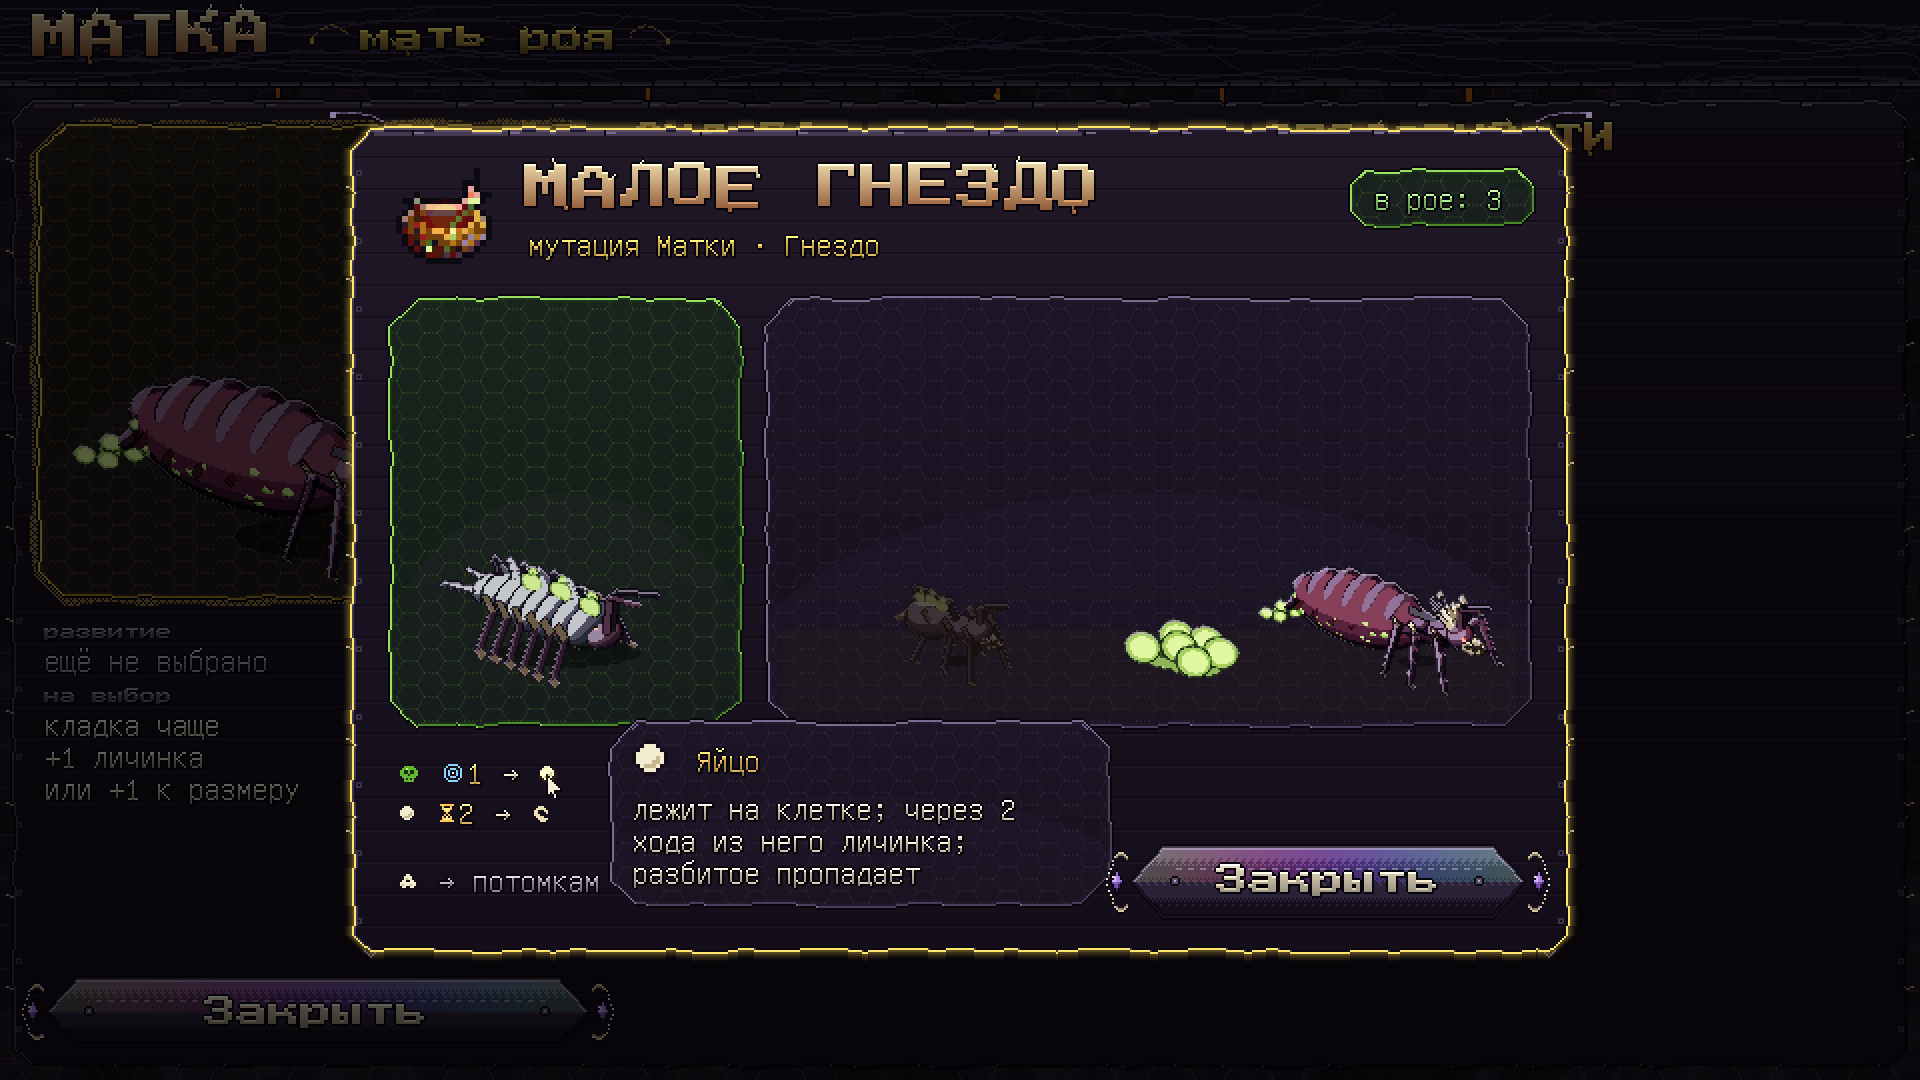
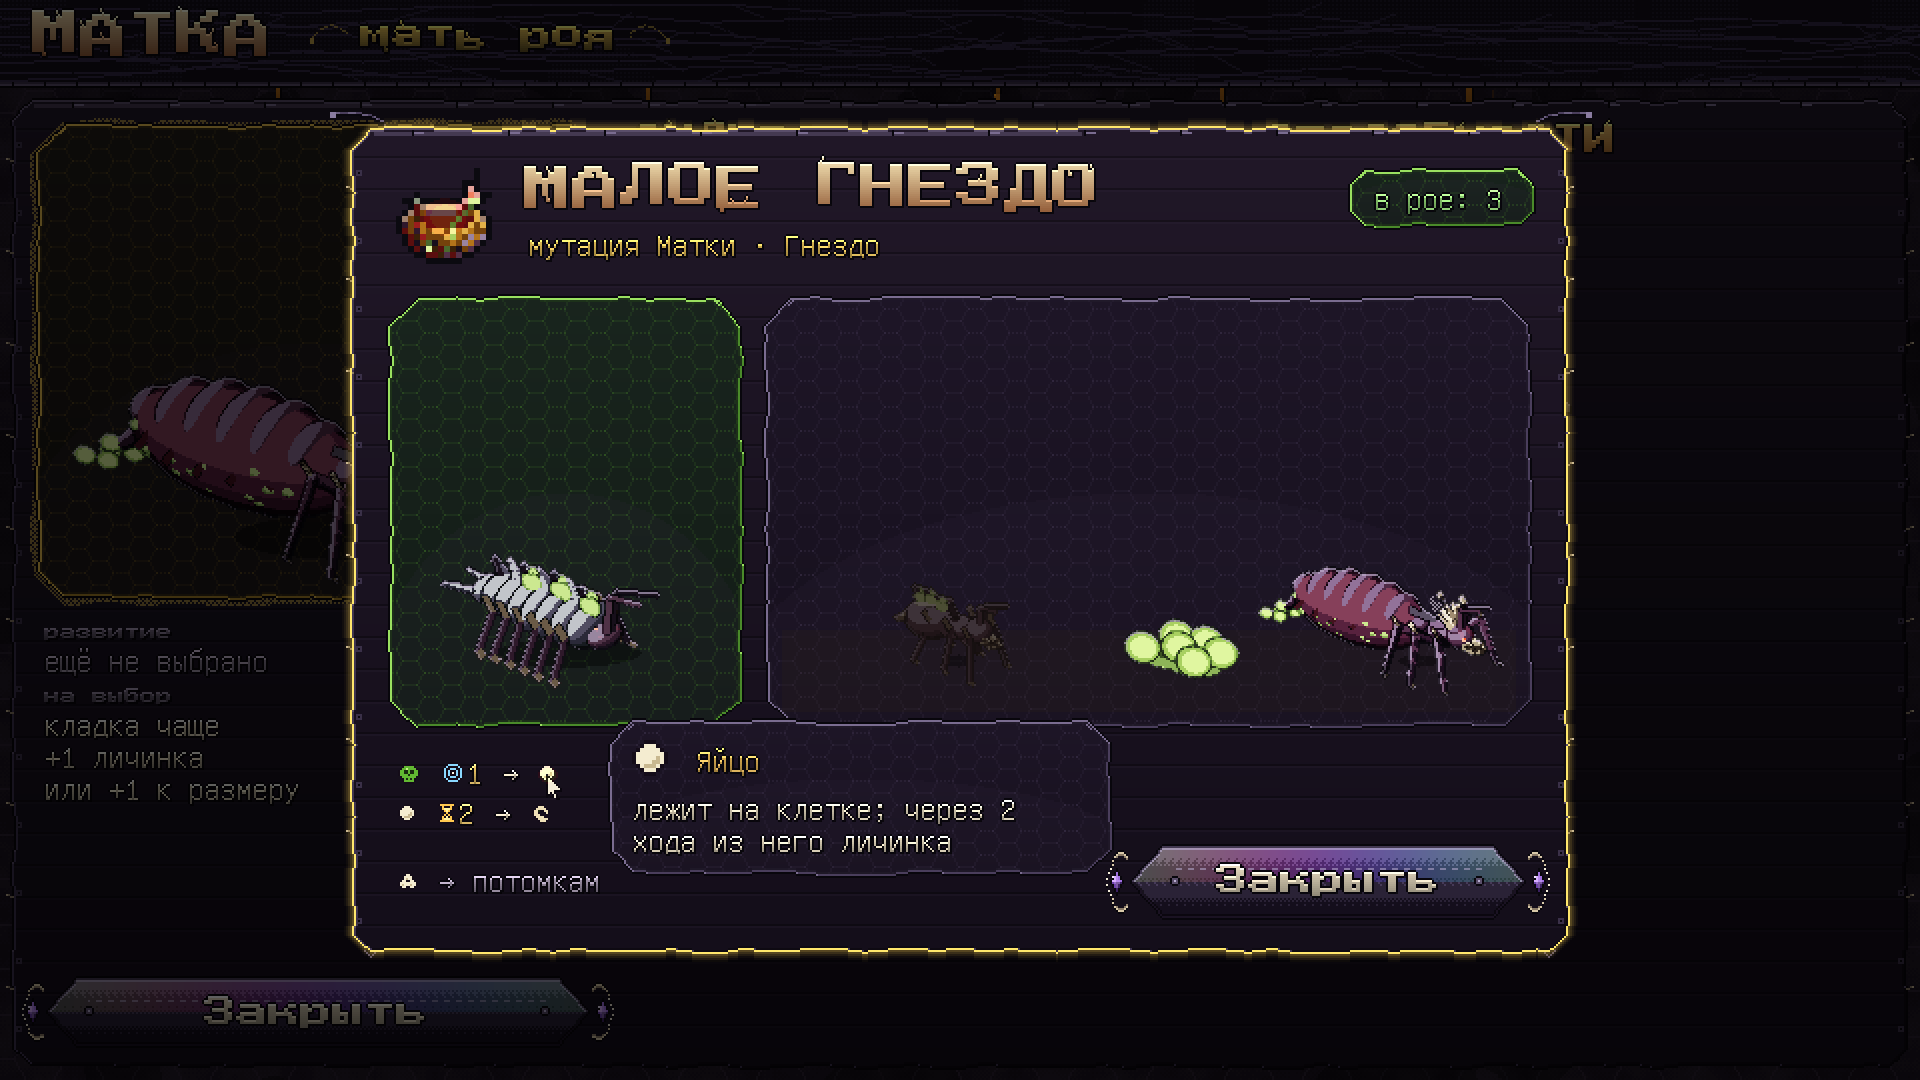
Значок яйца: определение без «разбитое пропадает»
Claude-Session: https://claude.ai/code/session_01Bh6a99SKMjjKSinDnrtssC

diff --git a/tools/sprites/fxg.py b/tools/sprites/fxg.py
@@ -86,7 +86,7 @@ TERMS = {
     "начало": ("Начало боя", "в первом раунде", "own"),
     "машина": ("Машины", "против машин", "own"),
     "лидер": ("Лидер", "лидер роя рядом", "own"),
-    "яйцо": ("Яйцо", "лежит на клетке; через 2 хода из него личинка; разбитое пропадает", "own"),
+    "яйцо": ("Яйцо", "лежит на клетке; через 2 хода из него личинка", "own"),
     "личинка": ("Личинка", "особь размера 1; бьётся со следующего раунда", "own"),
     "призыв": ("Призыв", "появляется рядом с ней", "own"),
     "прикован": ("Прикован", "не перемещается; атаковать может", "own"),
